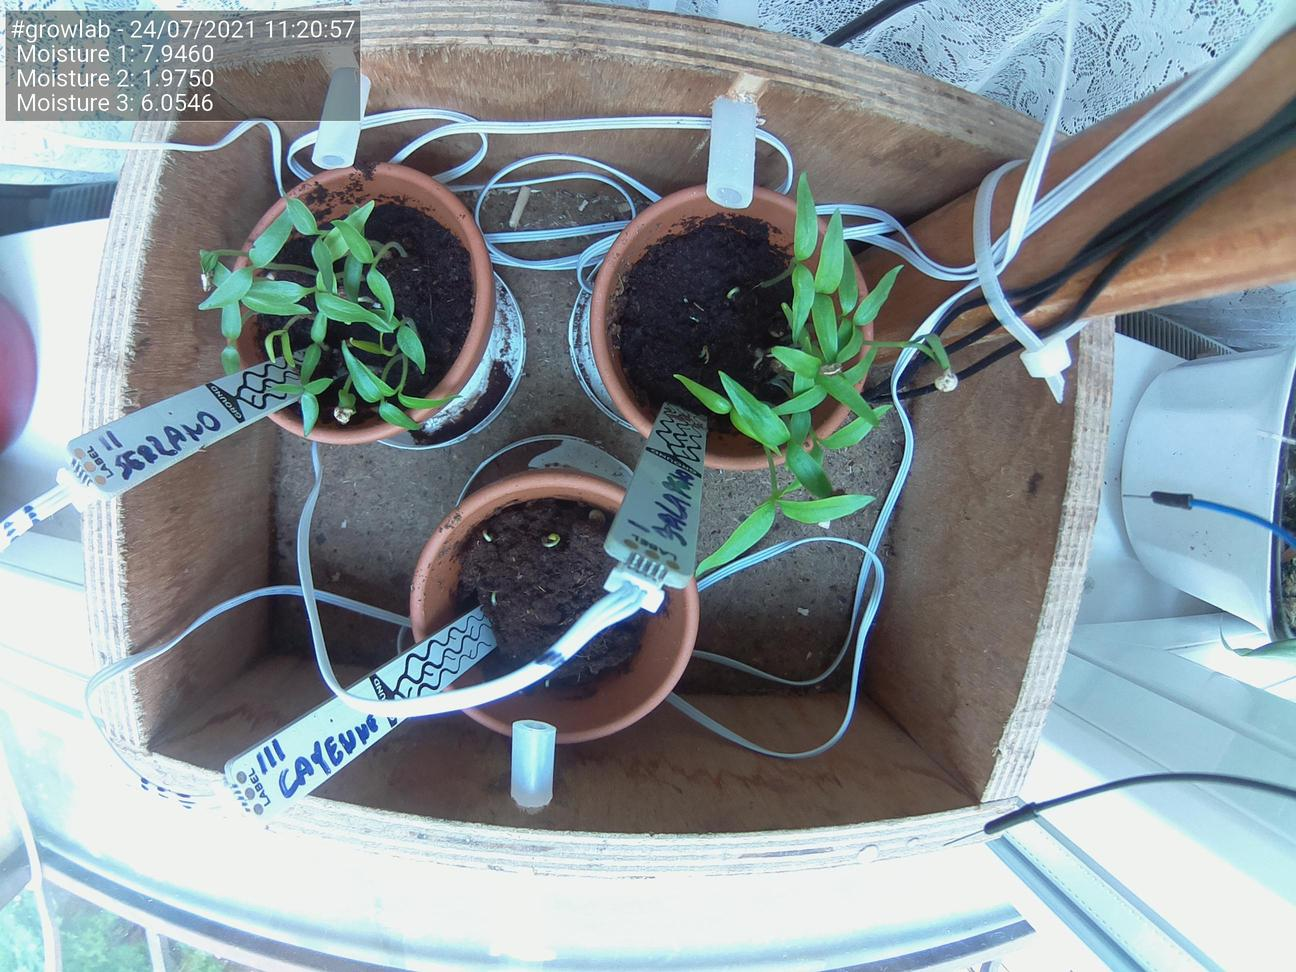
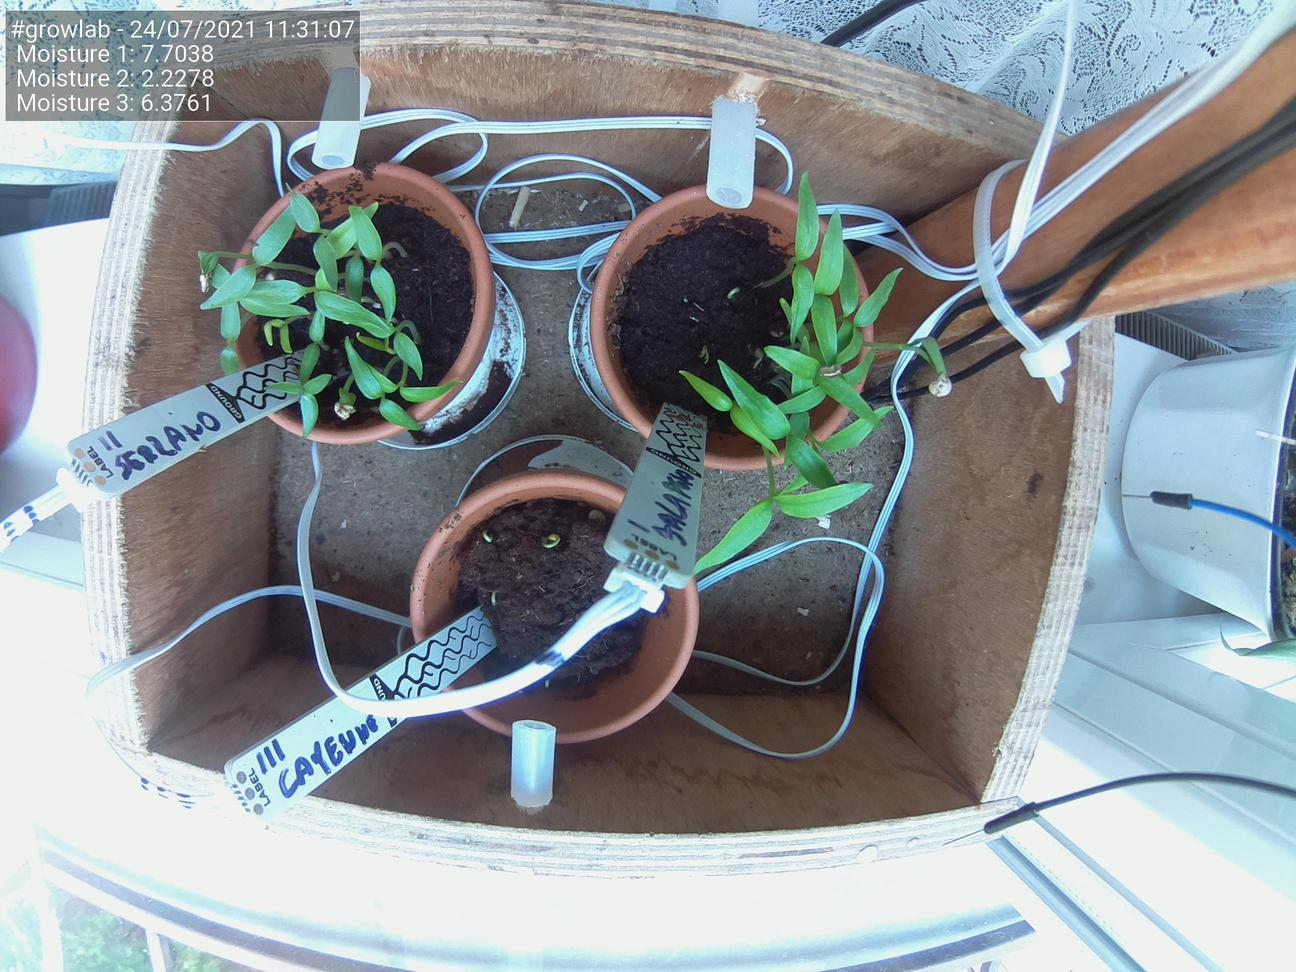
Update images at Sat 24 Jul 11:31:13 BST 2021

diff --git a/docs/index.html b/docs/index.html
@@ -51,25 +51,25 @@
                                 <td>Date</td>
                                 <td>24/07/2021</td>
                                 <td>Time</td>
-                                <td>11:20:57</td>
+                                <td>11:31:07</td>
                             </tr>
                             <tr>
                                 <td>Temperature</td>
                                 <td>N/A</td>
                                 <td>Moisture 1</td>
-                                <td>7.9460</td>
+                                <td>7.7038</td>
                             </tr>
                             <tr>
                                 <td>Humidity</td>
                                 <td>N/A</td>
                                 <td>Moisture 2</td>
-                                <td>1.9750</td>
+                                <td>2.2278</td>
                             </tr>
                             <tr>
                                 <td>Pressure</td>
                                 <td>N/A</td>
                                 <td>Moisture 3</td>
-                                <td>6.0546</td>
+                                <td>6.3761</td>
                             </tr>
                         </tbody>
                     </table>
@@ -77,7 +77,7 @@
 
                 <h5>Latest image</h5>
                 <div style="width: 85%;">
-                            <img class="figure-img img-fluid rounded" src="./preview.jpg?uid=1627122063.058341">
+                            <img class="figure-img img-fluid rounded" src="./preview.jpg?uid=1627122673.0194166">
                 </div>
             </div>
         </div>
